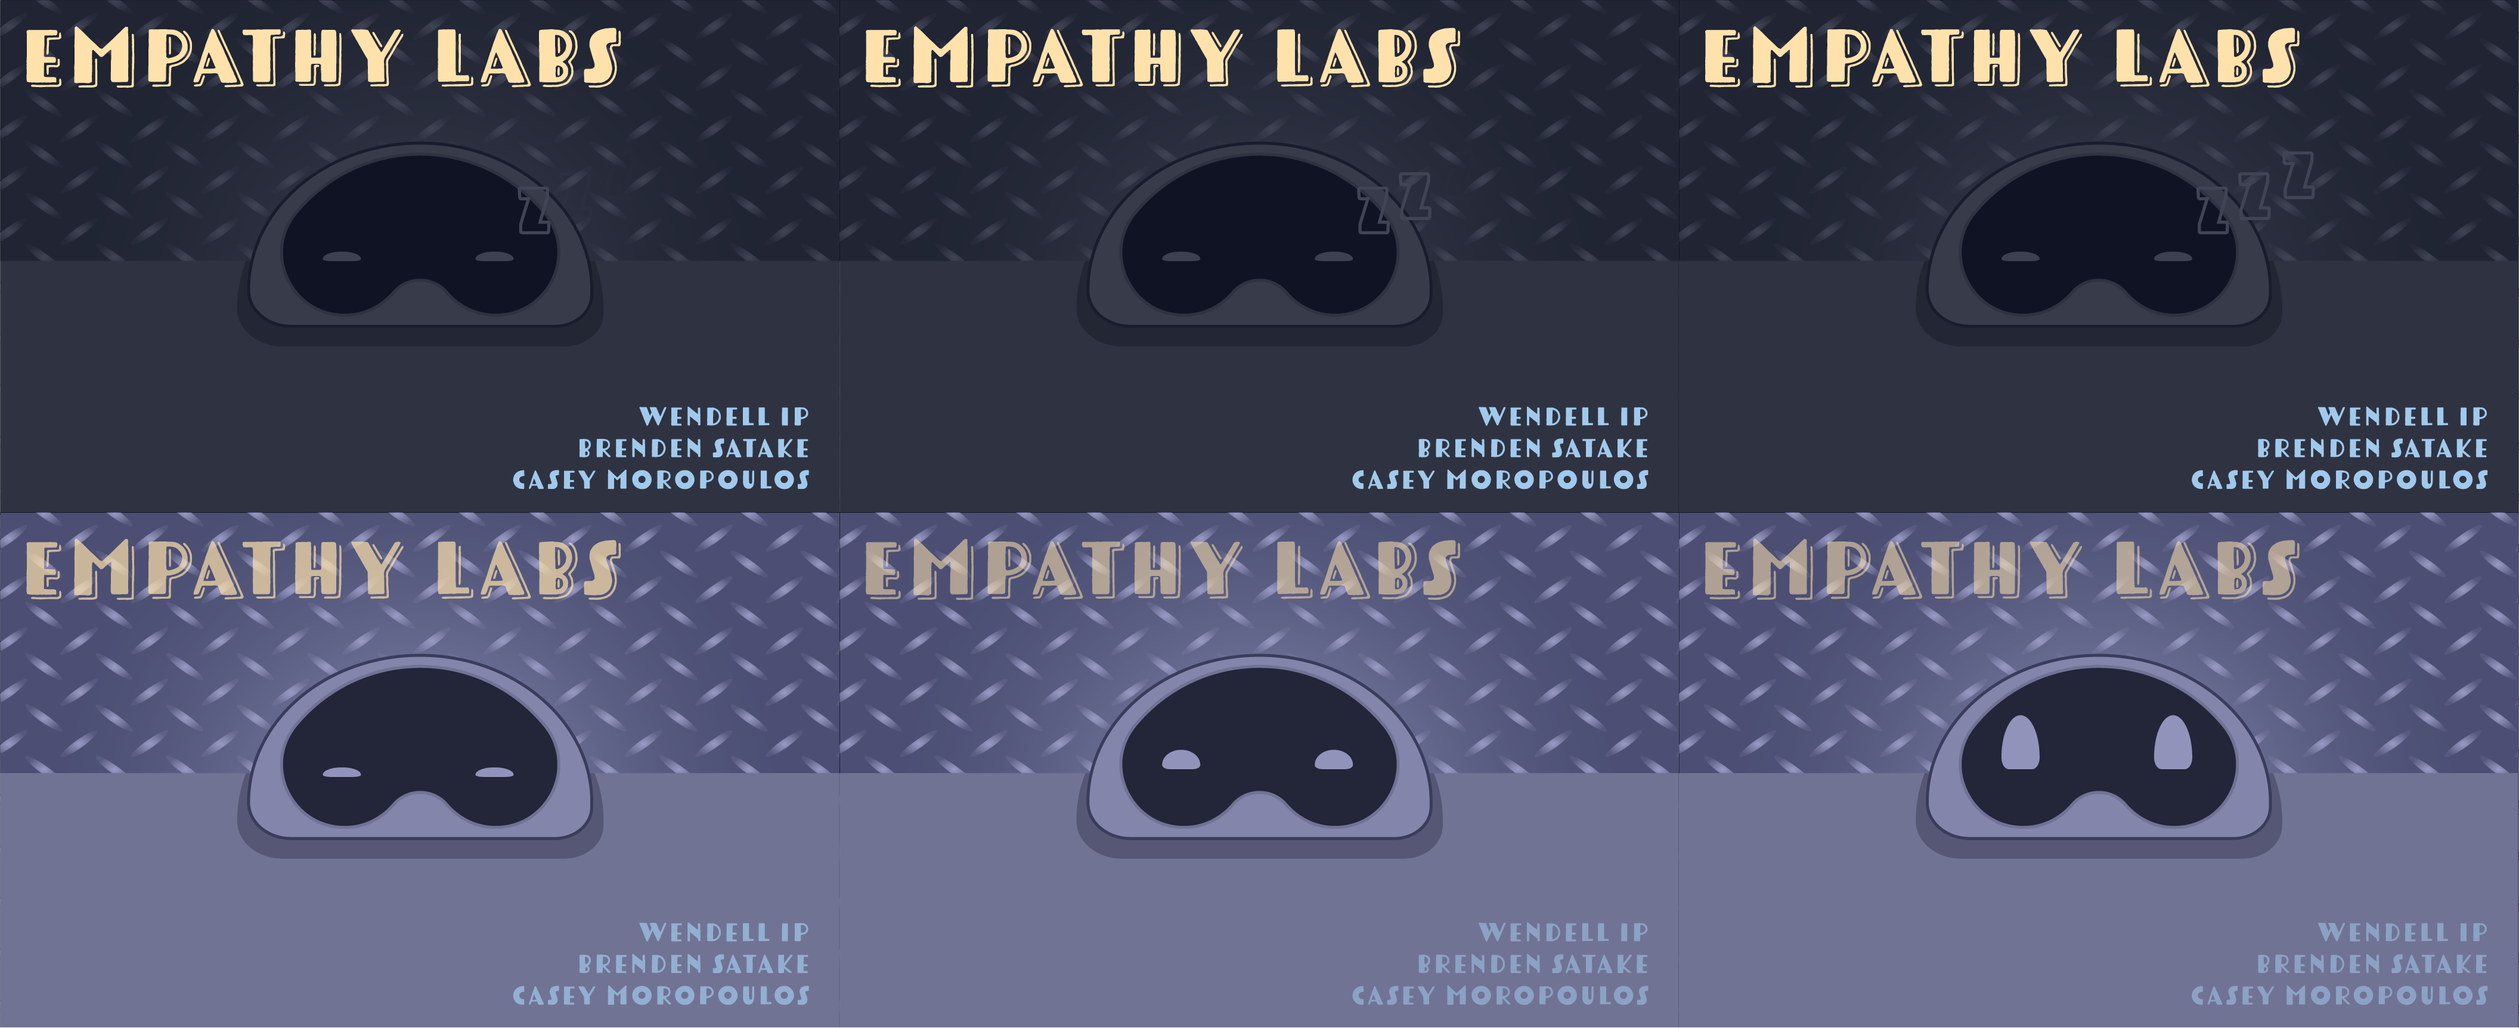
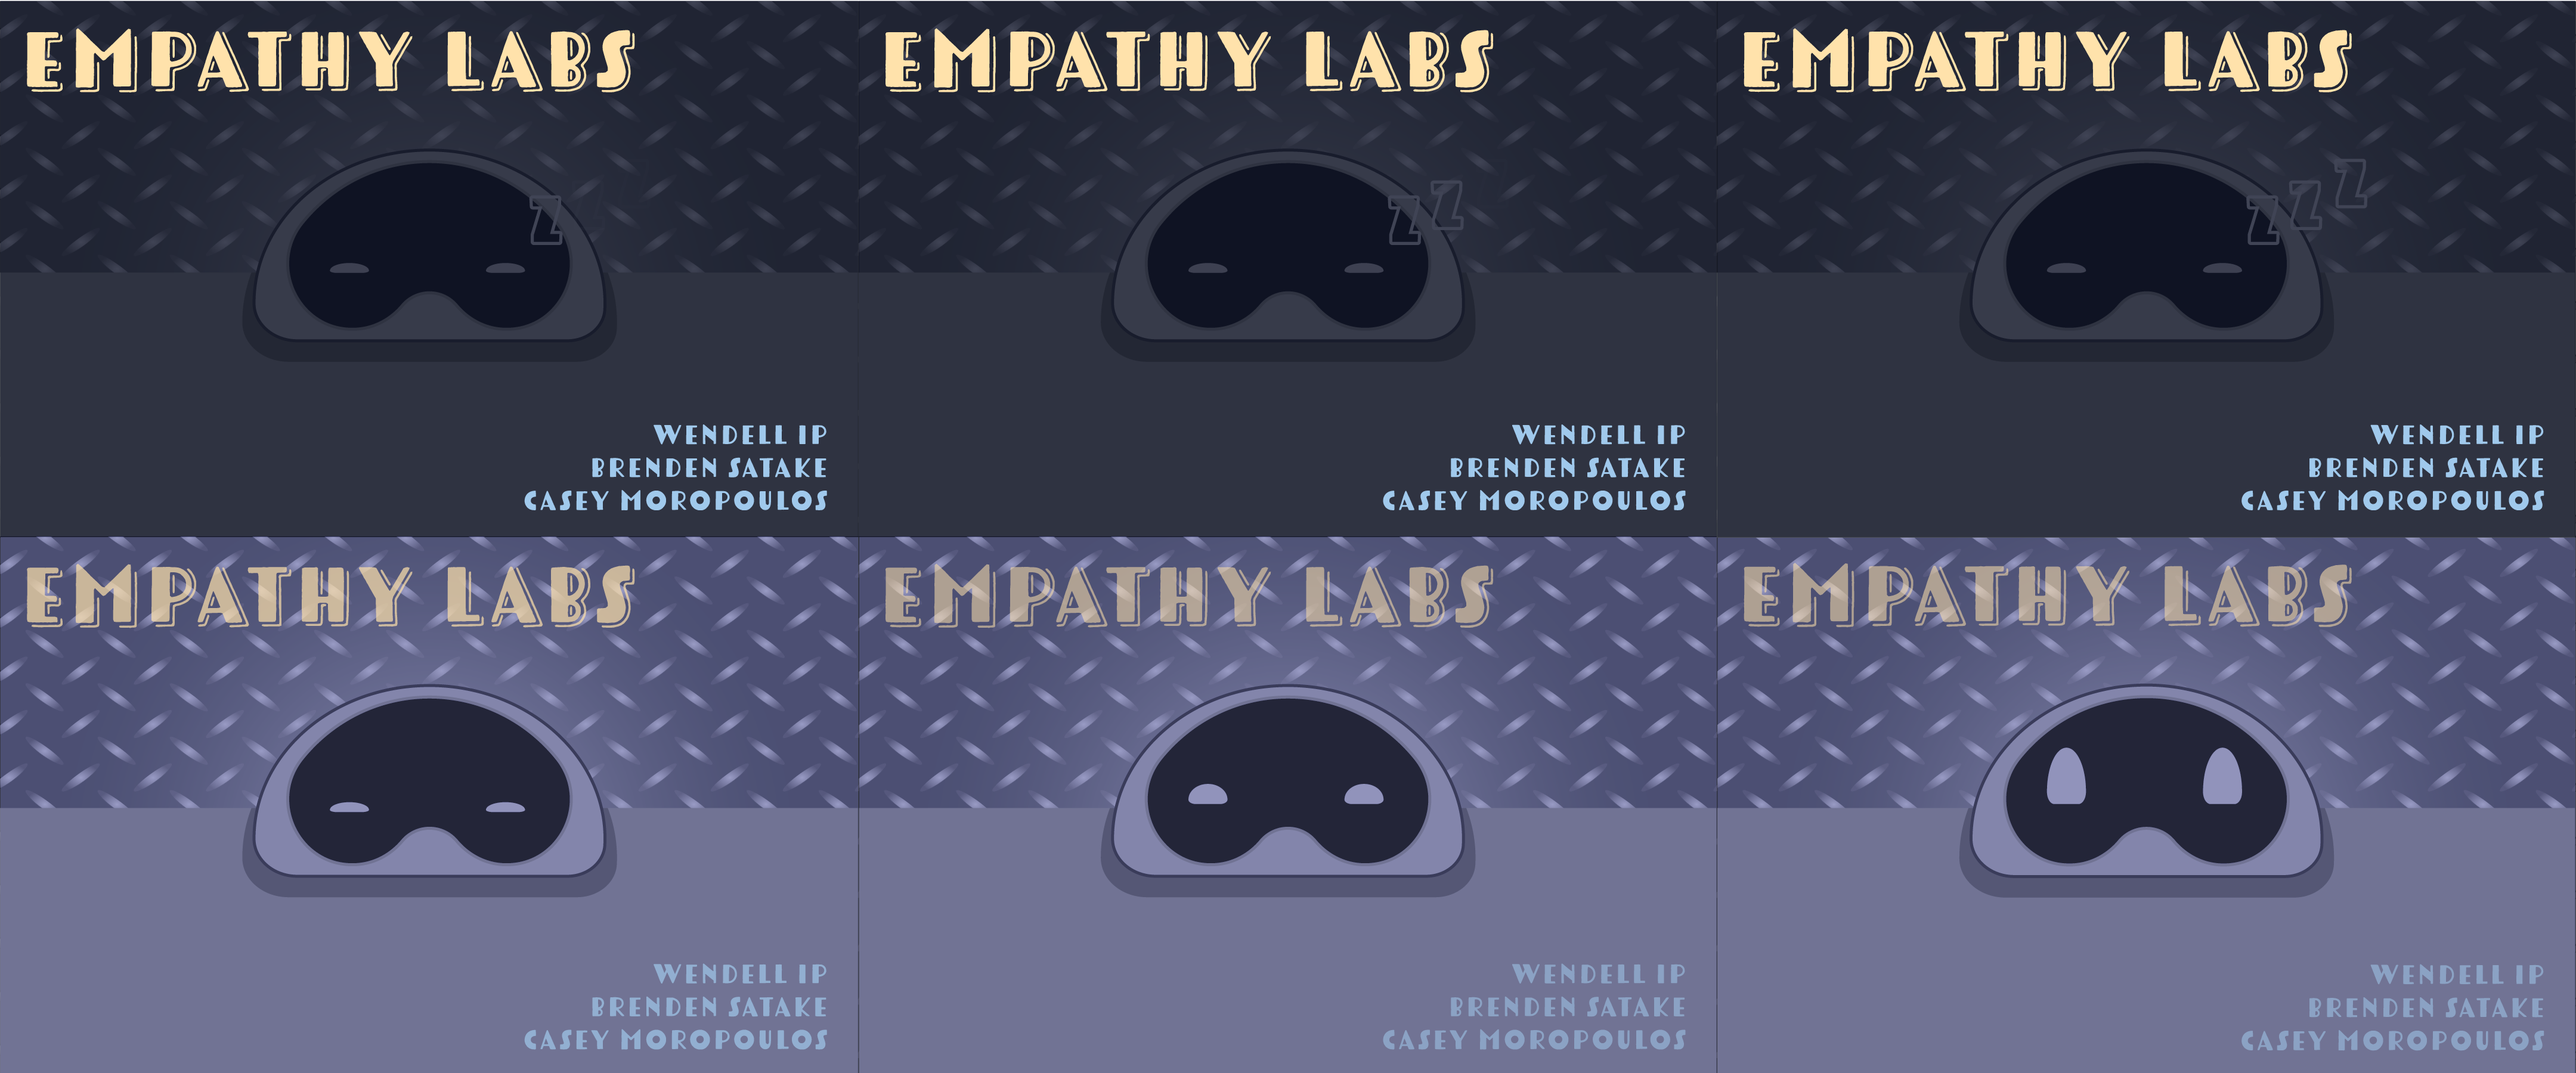
fixed

diff --git a/phaser/EmpathyLabs/js/main.js b/phaser/EmpathyLabs/js/main.js
@@ -105,7 +105,7 @@ Loading.prototype =
 		game.load.image('hand', 'assets/img/hand.png');
 		game.load.spritesheet('Map_Tutorial', 'assets/map/Map_Tutorial.png', 32, 32);
 		game.load.spritesheet('BigButton', 'assets/img/Start_Start.png', 427, 160);
-		game.load.spritesheet('MainMenuBack', 'assets/img/TitleScreen_Title.png',1408 ,864 );
+		game.load.spritesheet('MainMenuBack', 'assets/img/TitleScreen_Title.png',1440 ,900 );
 		game.load.spritesheet('Map_Fear', 'assets/map/Map_Fear.png', 32, 32);
 		game.load.spritesheet('Map_Joy', 'assets/map/Map_Joy.png', 32, 32);
 		game.load.spritesheet('Map_Sadness', 'assets/map/Map_Sadness.png', 32, 32);
